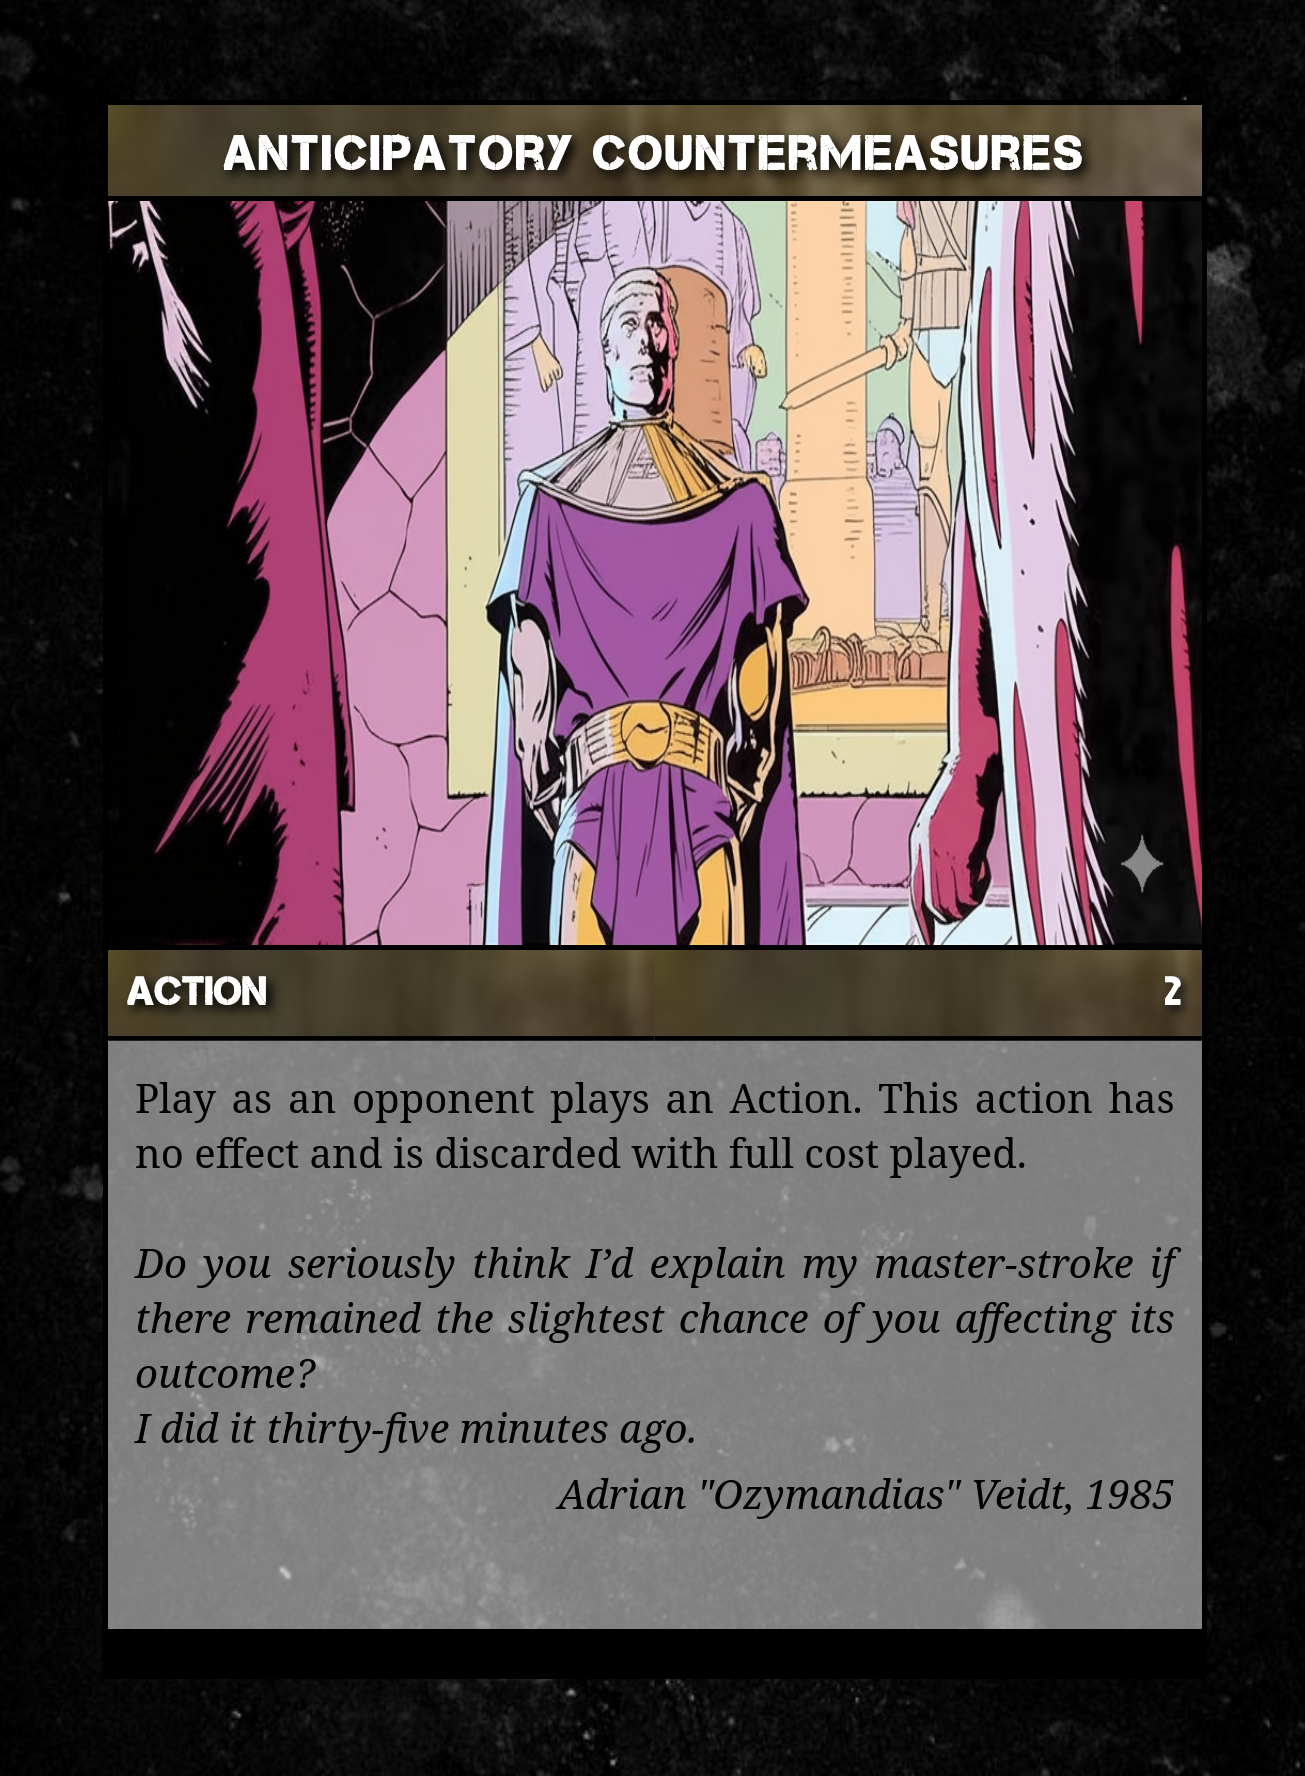
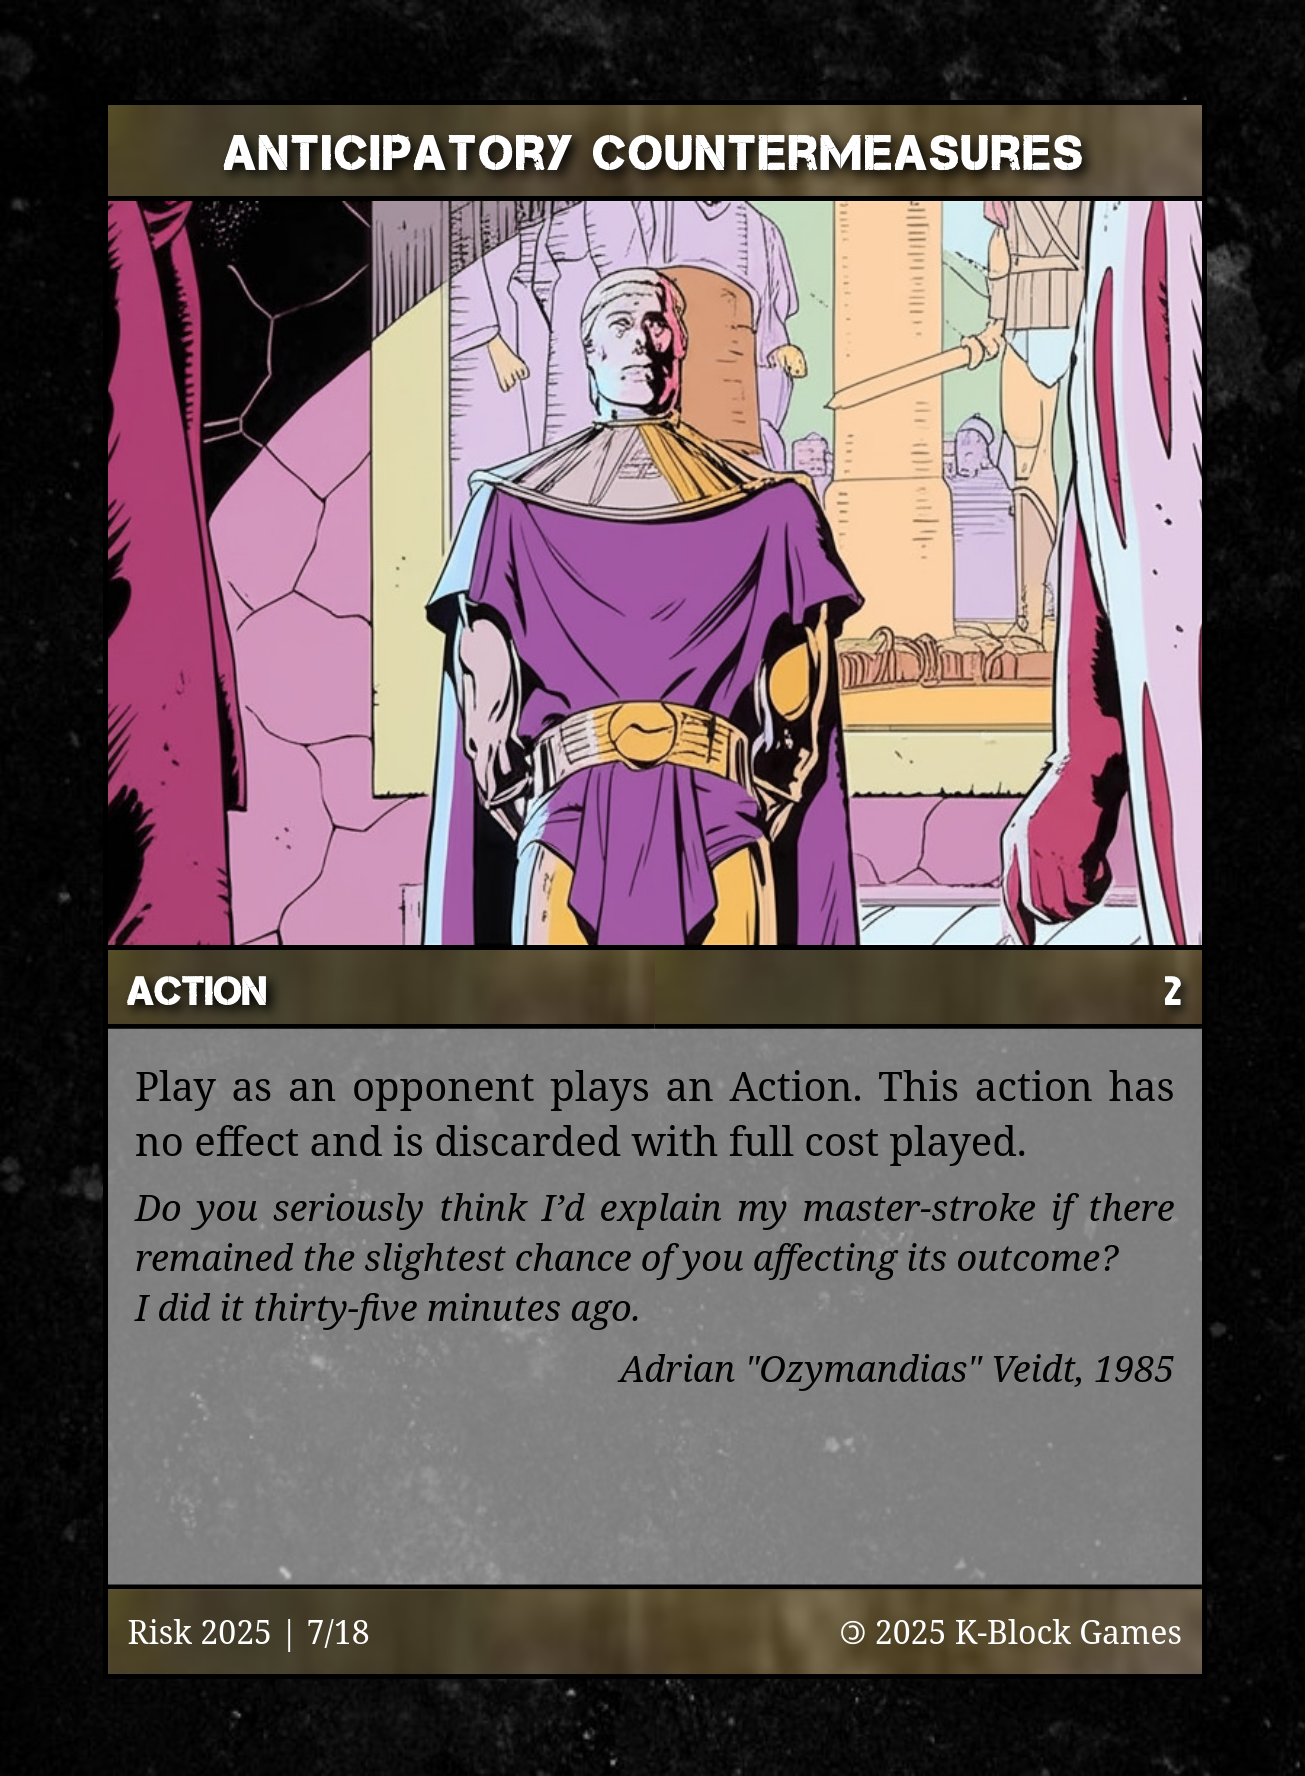
feature: risk 2025 action cards

diff --git a/games/risk_2025/cards/action_17.html b/games/risk_2025/cards/action_17.html
@@ -10,19 +10,19 @@
   <div class="bleed-area">
     <div class="cut-area">
       <div class="safe-area">
-        <div class="card-name">Conscription</div>
+        <div class="card-name">Resist Occupation</div>
         <div class="card-type">Action</div>
-        <div class="card-cost">2</div>
+        <div class="card-cost">3</div>
         <div class="card-image">
-          <img src="/home/ian/Projects/cardgen/games/risk_2025/img/cards/action_1.jpg" alt="Conscription" />
+          <img src="/home/ian/Projects/cardgen/games/risk_2025/img/cards/action_17.webp" alt="Resist Occupation" />
         </div>
         <div class="card-body">
-          <div class="card-effect">You gain 6 units, place them on any territory you control.</div>
-          <div class="card-quote">If I were slightly younger and not employed here, I think it would be a fantastic experience to be on the front lines of helping this young democracy succeed.</div>
-          <div class="card-source">George W. Bush, 2008</div>
+          <div class="card-effect">Play immediately after a player has lost a territory. All units lost this turn in that territory are returned to play in an adjacent territory that player controls.</div>
+          <div class="card-quote">“Who got the power?” The be my question<br>…<br>The pig who's free to murder one Shucklak<br>Or survivors who make a move and murder one back!?</div>
+          <div class="card-source">Zack De La Rocha, 1999</div>
         </div>
         <div class="card-footer">
-          <div class="card-footer-left">Risk 2025 | 1/18</div>
+          <div class="card-footer-left">Risk 2025 | 17/18</div>
           <div class="card-footer-right">🄯 2025 K-Block Games</div>
         </div>
       </div>

diff --git a/games/risk_2025/cards/action_11.html b/games/risk_2025/cards/action_11.html
@@ -10,19 +10,19 @@
   <div class="bleed-area">
     <div class="cut-area">
       <div class="safe-area">
-        <div class="card-name">Conscription</div>
+        <div class="card-name">Kompromat</div>
         <div class="card-type">Action</div>
-        <div class="card-cost">2</div>
+        <div class="card-cost">3</div>
         <div class="card-image">
-          <img src="/home/ian/Projects/cardgen/games/risk_2025/img/cards/action_1.jpg" alt="Conscription" />
+          <img src="/home/ian/Projects/cardgen/games/risk_2025/img/cards/action_11.png" alt="Kompromat" />
         </div>
         <div class="card-body">
-          <div class="card-effect">You gain 6 units, place them on any territory you control.</div>
-          <div class="card-quote">If I were slightly younger and not employed here, I think it would be a fantastic experience to be on the front lines of helping this young democracy succeed.</div>
-          <div class="card-source">George W. Bush, 2008</div>
+          <div class="card-effect">At the beginning of your turn, select a territory that you do not control. You may make up to three attacks with the units in that territory as if they were your own.</div>
+          <div class="card-quote">I’ve known Jeff for fifteen years. Terrific guy […] He’s a lot of fun to be with. It is even said that he likes beautiful women as much as I do.</div>
+          <div class="card-source">Donald Trump, 2002</div>
         </div>
         <div class="card-footer">
-          <div class="card-footer-left">Risk 2025 | 1/18</div>
+          <div class="card-footer-left">Risk 2025 | 11/18</div>
           <div class="card-footer-right">🄯 2025 K-Block Games</div>
         </div>
       </div>

diff --git a/games/risk_2025/cards/action_14.html b/games/risk_2025/cards/action_14.html
@@ -10,19 +10,19 @@
   <div class="bleed-area">
     <div class="cut-area">
       <div class="safe-area">
-        <div class="card-name">Conscription</div>
+        <div class="card-name">Wiretapping</div>
         <div class="card-type">Action</div>
-        <div class="card-cost">2</div>
+        <div class="card-cost">3</div>
         <div class="card-image">
-          <img src="/home/ian/Projects/cardgen/games/risk_2025/img/cards/action_1.jpg" alt="Conscription" />
+          <img src="/home/ian/Projects/cardgen/games/risk_2025/img/cards/action_14.png" alt="Wiretapping" />
         </div>
         <div class="card-body">
-          <div class="card-effect">You gain 6 units, place them on any territory you control.</div>
-          <div class="card-quote">If I were slightly younger and not employed here, I think it would be a fantastic experience to be on the front lines of helping this young democracy succeed.</div>
-          <div class="card-source">George W. Bush, 2008</div>
+          <div class="card-effect">Target player reveals their hand. You may choose a card and place it in your hand.</div>
+          <div class="card-quote">The NSA has built an infrastructure that allows it to intercept almost everything. With this capability, the vast majority of human communications are automatically ingested without targeting. </div>
+          <div class="card-source">Edward Snowden, 2013</div>
         </div>
         <div class="card-footer">
-          <div class="card-footer-left">Risk 2025 | 1/18</div>
+          <div class="card-footer-left">Risk 2025 | 14/18</div>
           <div class="card-footer-right">🄯 2025 K-Block Games</div>
         </div>
       </div>

diff --git a/games/risk_2025/cards/action_16.html b/games/risk_2025/cards/action_16.html
@@ -10,19 +10,19 @@
   <div class="bleed-area">
     <div class="cut-area">
       <div class="safe-area">
-        <div class="card-name">Conscription</div>
+        <div class="card-name">Manifest Destiny</div>
         <div class="card-type">Action</div>
-        <div class="card-cost">2</div>
+        <div class="card-cost">3</div>
         <div class="card-image">
-          <img src="/home/ian/Projects/cardgen/games/risk_2025/img/cards/action_1.jpg" alt="Conscription" />
+          <img src="/home/ian/Projects/cardgen/games/risk_2025/img/cards/action_16.jpg" alt="Manifest Destiny" />
         </div>
         <div class="card-body">
-          <div class="card-effect">You gain 6 units, place them on any territory you control.</div>
-          <div class="card-quote">If I were slightly younger and not employed here, I think it would be a fantastic experience to be on the front lines of helping this young democracy succeed.</div>
-          <div class="card-source">George W. Bush, 2008</div>
+          <div class="card-effect">Select a player, they ignore any effects of event cards this round.</div>
+          <div class="card-quote">I play my enemies like a game of chess<br>Where I rest, no stress if you don't smoke sess<br>Lest I must confess, my destiny's manifest<br>In some Gore-Tex and sweats, I make treks like I'm homeless</div>
+          <div class="card-source">Lauren Hill, 1996</div>
         </div>
         <div class="card-footer">
-          <div class="card-footer-left">Risk 2025 | 1/18</div>
+          <div class="card-footer-left">Risk 2025 | 16/18</div>
           <div class="card-footer-right">🄯 2025 K-Block Games</div>
         </div>
       </div>

diff --git a/games/risk_2025/cards/action_13.html b/games/risk_2025/cards/action_13.html
@@ -1,0 +1,34 @@
+
+                <!DOCTYPE html>
+                <html>
+                <head>
+                    <base href="file:///home/ian/Projects/cardgen/games/risk_2025/">
+                    <link rel="stylesheet" href="file:///home/ian/Projects/cardgen/games/risk_2025/styles.css">
+                </head>
+                <body>
+                <div class="trading-card">
+  <div class="bleed-area">
+    <div class="cut-area">
+      <div class="safe-area">
+        <div class="card-name">Extrodinary Rendition</div>
+        <div class="card-type">Action</div>
+        <div class="card-cost">3</div>
+        <div class="card-image">
+          <img src="/home/ian/Projects/cardgen/games/risk_2025/img/cards/action_13.webp" alt="Extrodinary Rendition" />
+        </div>
+        <div class="card-body">
+          <div class="card-effect">Choose a territory another player controls. You may move any number of units from that territory to another that player controls, leaving a minimum of one in place.</div>
+          <div class="card-quote">If you want a serious interrogation, you send a prisoner to Jordan. If you want them to be tortured, you send them to Syria. If you want someone to disappear – never to see them again – you send them to Egypt.</div>
+          <div class="card-source">Former CIA agent Robert Baer, 2004</div>
+        </div>
+        <div class="card-footer">
+          <div class="card-footer-left">Risk 2025 | 13/18</div>
+          <div class="card-footer-right">🄯 2025 K-Block Games</div>
+        </div>
+      </div>
+    </div>
+  </div>
+</div>
+                </body>
+                </html>
+                

diff --git a/games/risk_2025/cards/action_9.html b/games/risk_2025/cards/action_9.html
@@ -10,19 +10,19 @@
   <div class="bleed-area">
     <div class="cut-area">
       <div class="safe-area">
-        <div class="card-name">Conscription</div>
+        <div class="card-name">Advanced weaponary</div>
         <div class="card-type">Action</div>
         <div class="card-cost">2</div>
         <div class="card-image">
-          <img src="/home/ian/Projects/cardgen/games/risk_2025/img/cards/action_1.jpg" alt="Conscription" />
+          <img src="/home/ian/Projects/cardgen/games/risk_2025/img/cards/action_9.png" alt="Advanced weaponary" />
         </div>
         <div class="card-body">
-          <div class="card-effect">You gain 6 units, place them on any territory you control.</div>
-          <div class="card-quote">If I were slightly younger and not employed here, I think it would be a fantastic experience to be on the front lines of helping this young democracy succeed.</div>
-          <div class="card-source">George W. Bush, 2008</div>
+          <div class="card-effect">Units in or attacking from target territory get +1 to all dice rolls until the end of this turn.</div>
+          <div class="card-quote">[Saddam] has existing and active military plans for the use of chemical and biological weapons, which could be activated within 45 minutes.</div>
+          <div class="card-source">Tony Blair, 2002</div>
         </div>
         <div class="card-footer">
-          <div class="card-footer-left">Risk 2025 | 1/18</div>
+          <div class="card-footer-left">Risk 2025 | 9/18</div>
           <div class="card-footer-right">🄯 2025 K-Block Games</div>
         </div>
       </div>

diff --git a/games/risk_2025/cards/action_12.html b/games/risk_2025/cards/action_12.html
@@ -10,19 +10,19 @@
   <div class="bleed-area">
     <div class="cut-area">
       <div class="safe-area">
-        <div class="card-name">Conscription</div>
+        <div class="card-name">Little Green Men</div>
         <div class="card-type">Action</div>
-        <div class="card-cost">2</div>
+        <div class="card-cost">3</div>
         <div class="card-image">
-          <img src="/home/ian/Projects/cardgen/games/risk_2025/img/cards/action_1.jpg" alt="Conscription" />
+          <img src="/home/ian/Projects/cardgen/games/risk_2025/img/cards/action_12.JPG" alt="Little Green Men" />
         </div>
         <div class="card-body">
-          <div class="card-effect">You gain 6 units, place them on any territory you control.</div>
-          <div class="card-quote">If I were slightly younger and not employed here, I think it would be a fantastic experience to be on the front lines of helping this young democracy succeed.</div>
-          <div class="card-source">George W. Bush, 2008</div>
+          <div class="card-effect">Choose a territory you control. You may move any number of units from that territory to another you control, leaving a minimum of one in place.</div>
+          <div class="card-quote">There are no Russian troops in Ukraine</div>
+          <div class="card-source">Vladimir Putin, 2015</div>
         </div>
         <div class="card-footer">
-          <div class="card-footer-left">Risk 2025 | 1/18</div>
+          <div class="card-footer-left">Risk 2025 | 12/18</div>
           <div class="card-footer-right">🄯 2025 K-Block Games</div>
         </div>
       </div>

diff --git a/games/risk_2025/cards/action_15.html b/games/risk_2025/cards/action_15.html
@@ -10,19 +10,19 @@
   <div class="bleed-area">
     <div class="cut-area">
       <div class="safe-area">
-        <div class="card-name">Conscription</div>
+        <div class="card-name">Insider Trading</div>
         <div class="card-type">Action</div>
-        <div class="card-cost">2</div>
+        <div class="card-cost">3</div>
         <div class="card-image">
-          <img src="/home/ian/Projects/cardgen/games/risk_2025/img/cards/action_1.jpg" alt="Conscription" />
+          <img src="/home/ian/Projects/cardgen/games/risk_2025/img/cards/action_15.webp" alt="Insider Trading" />
         </div>
         <div class="card-body">
-          <div class="card-effect">You gain 6 units, place them on any territory you control.</div>
-          <div class="card-quote">If I were slightly younger and not employed here, I think it would be a fantastic experience to be on the front lines of helping this young democracy succeed.</div>
-          <div class="card-source">George W. Bush, 2008</div>
+          <div class="card-effect">You may look at the top three cards of the event deck. Place as many as you like on the bottom of the deck, and the rest on top in any order.</div>
+          <div class="card-quote">“THIS IS A GREAT TIME TO BUY!!!”</div>
+          <div class="card-source">Donald Trump, 2025</div>
         </div>
         <div class="card-footer">
-          <div class="card-footer-left">Risk 2025 | 1/18</div>
+          <div class="card-footer-left">Risk 2025 | 15/18</div>
           <div class="card-footer-right">🄯 2025 K-Block Games</div>
         </div>
       </div>

diff --git a/games/risk_2025/cards/action_18.html b/games/risk_2025/cards/action_18.html
@@ -10,19 +10,19 @@
   <div class="bleed-area">
     <div class="cut-area">
       <div class="safe-area">
-        <div class="card-name">Conscription</div>
+        <div class="card-name">Peerless Diplomacy</div>
         <div class="card-type">Action</div>
-        <div class="card-cost">2</div>
+        <div class="card-cost">3</div>
         <div class="card-image">
-          <img src="/home/ian/Projects/cardgen/games/risk_2025/img/cards/action_1.jpg" alt="Conscription" />
+          <img src="/home/ian/Projects/cardgen/games/risk_2025/img/cards/action_18.webp" alt="Peerless Diplomacy" />
         </div>
         <div class="card-body">
-          <div class="card-effect">You gain 6 units, place them on any territory you control.</div>
-          <div class="card-quote">If I were slightly younger and not employed here, I think it would be a fantastic experience to be on the front lines of helping this young democracy succeed.</div>
-          <div class="card-source">George W. Bush, 2008</div>
+          <div class="card-effect">Play immediately after a vote or bid. You win that vote or bid.</div>
+          <div class="card-quote">I have nothing to say to him Ronald Reagan, because he is mad. He is foolish. He is an Israeli dog.</div>
+          <div class="card-source">Muammar Gaddafi, 1986</div>
         </div>
         <div class="card-footer">
-          <div class="card-footer-left">Risk 2025 | 1/18</div>
+          <div class="card-footer-left">Risk 2025 | 18/18</div>
           <div class="card-footer-right">🄯 2025 K-Block Games</div>
         </div>
       </div>

diff --git a/games/risk_2025/cards/action_10.html b/games/risk_2025/cards/action_10.html
@@ -10,19 +10,19 @@
   <div class="bleed-area">
     <div class="cut-area">
       <div class="safe-area">
-        <div class="card-name">Conscription</div>
+        <div class="card-name">Private Contractors</div>
         <div class="card-type">Action</div>
-        <div class="card-cost">2</div>
+        <div class="card-cost">3</div>
         <div class="card-image">
-          <img src="/home/ian/Projects/cardgen/games/risk_2025/img/cards/action_1.jpg" alt="Conscription" />
+          <img src="/home/ian/Projects/cardgen/games/risk_2025/img/cards/action_10.jpg" alt="Private Contractors" />
         </div>
         <div class="card-body">
-          <div class="card-effect">You gain 6 units, place them on any territory you control.</div>
-          <div class="card-quote">If I were slightly younger and not employed here, I think it would be a fantastic experience to be on the front lines of helping this young democracy succeed.</div>
-          <div class="card-source">George W. Bush, 2008</div>
+          <div class="card-effect">Select an opponent. You gain 6 units on any one territory that player chooses.</div>
+          <div class="card-quote">Shoigu, Gerasimov, where the fuck is our ammunition?</div>
+          <div class="card-source">Yevgeny Prigozhin, 2022</div>
         </div>
         <div class="card-footer">
-          <div class="card-footer-left">Risk 2025 | 1/18</div>
+          <div class="card-footer-left">Risk 2025 | 10/18</div>
           <div class="card-footer-right">🄯 2025 K-Block Games</div>
         </div>
       </div>

diff --git a/games/risk_2025/cards/action_8.html b/games/risk_2025/cards/action_8.html
@@ -10,19 +10,19 @@
   <div class="bleed-area">
     <div class="cut-area">
       <div class="safe-area">
-        <div class="card-name">Conscription</div>
+        <div class="card-name">Moment’s peace</div>
         <div class="card-type">Action</div>
         <div class="card-cost">2</div>
         <div class="card-image">
-          <img src="/home/ian/Projects/cardgen/games/risk_2025/img/cards/action_1.jpg" alt="Conscription" />
+          <img src="/home/ian/Projects/cardgen/games/risk_2025/img/cards/action_8.webp" alt="Moment’s peace" />
         </div>
         <div class="card-body">
-          <div class="card-effect">You gain 6 units, place them on any territory you control.</div>
-          <div class="card-quote">If I were slightly younger and not employed here, I think it would be a fantastic experience to be on the front lines of helping this young democracy succeed.</div>
-          <div class="card-source">George W. Bush, 2008</div>
+          <div class="card-effect">Select a territory. This territory may not be attacked this turn.</div>
+          <div class="card-quote">Apart from smoking blunts, my favourite shit is to chill</div>
+          <div class="card-source">Hugo, possibly</div>
         </div>
         <div class="card-footer">
-          <div class="card-footer-left">Risk 2025 | 1/18</div>
+          <div class="card-footer-left">Risk 2025 | 8/18</div>
           <div class="card-footer-right">🄯 2025 K-Block Games</div>
         </div>
       </div>

diff --git a/games/risk_2025/cards/action_6.html b/games/risk_2025/cards/action_6.html
@@ -21,7 +21,10 @@
           <div class="card-quote">It took me about a year with Sandy Hook to come to grips with the fact that the whole thing was fake. I mean, I couldn't believe it. I knew they jumped on it, used the crisis, hyped it up. But then I did deep research and my gosh, it just pretty much didn't happen. </div>
           <div class="card-source">Alex Jones, 2014</div>
         </div>
-        <div class="card-footer">Risk 2025</div>
+        <div class="card-footer">
+          <div class="card-footer-left">Risk 2025 | 6/18</div>
+          <div class="card-footer-right">🄯 2025 K-Block Games</div>
+        </div>
       </div>
     </div>
   </div>
